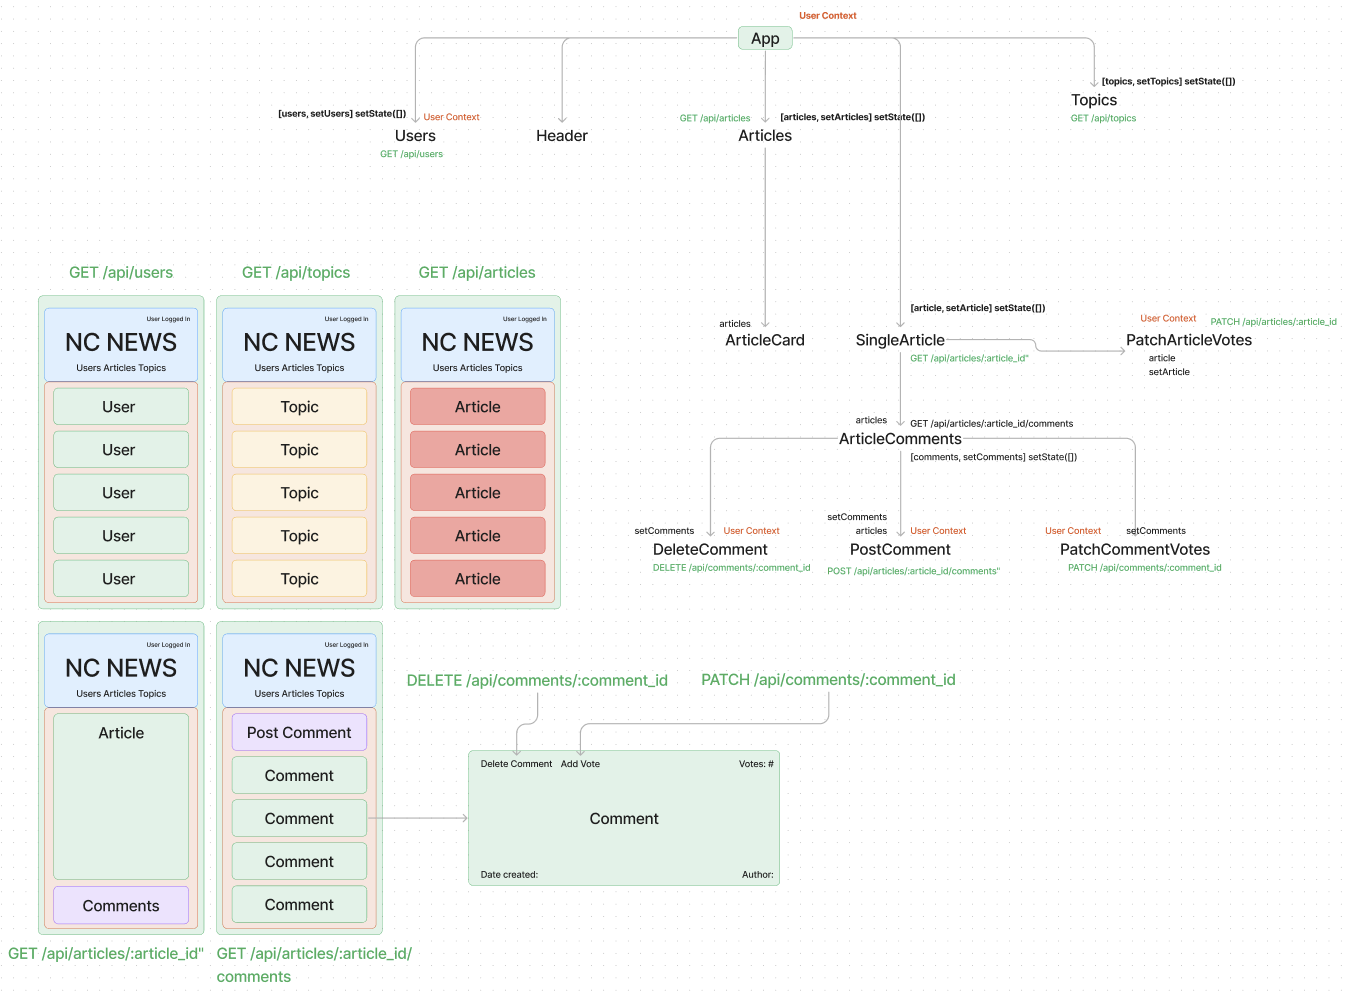
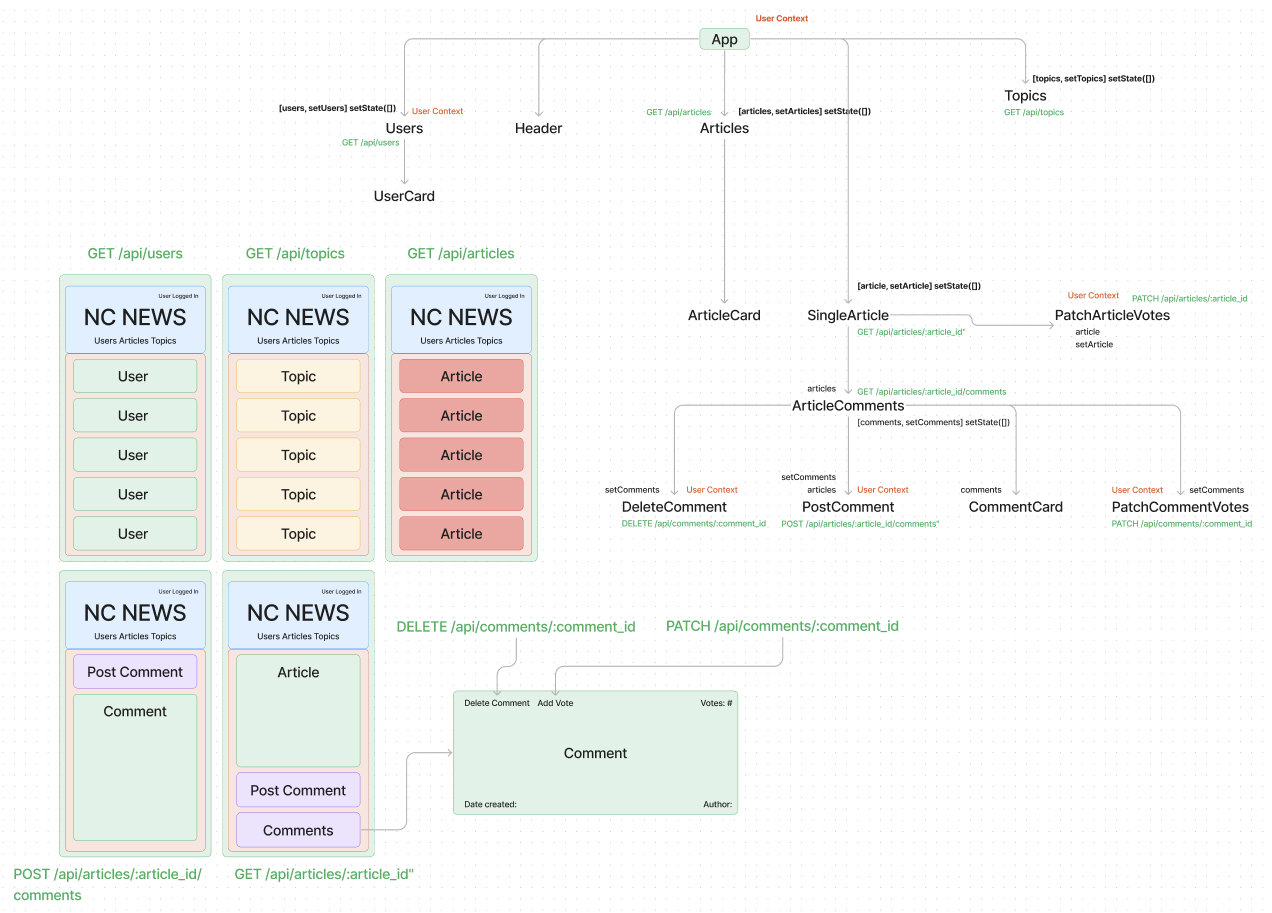
adds more planning to wireframe and more functionality on users endpoint

diff --git a/src/components/Users.jsx b/src/components/Users.jsx
@@ -1,16 +1,10 @@
-import { useContext, useEffect, useState } from "react";
-import { UserContext } from "./UserContext";
+import { useEffect, useState } from "react";
 import { getAllUsers } from "./api";
 import UserCard from "./UserCard";
 
 const Users = () => {
   const [users, setUsers] = useState([]);
-  const { setUser } = useContext(UserContext);
   const [isLoading, setIsLoading] = useState(true);
-
-  function handleUserClick(username) {
-    setUser(username);
-  }
 
   useEffect(() => {
     getAllUsers().then((users) => {

diff --git a/src/components/Header.jsx b/src/components/Header.jsx
@@ -1,11 +1,16 @@
+import { useContext } from "react";
+import { UserContext } from "./UserContext";
 import { Link } from "react-router-dom";
 
 const Header = () => {
+  const { user } = useContext(UserContext);
+
   return (
     <div className="header">
+      {user ? <p>'{user}' is logged in.</p> : <p>Click Users link to log in</p>}
       <h1>NC-NEWS</h1>
       <Link to={"/users"}>
-      <h2>Users</h2>
+        <h2>Users</h2>
       </Link>
       <Link to={"/articles"}>
         <h2>Articles</h2>

diff --git a/src/components/UserCard.jsx b/src/components/UserCard.jsx
@@ -1,6 +1,17 @@
+import { useContext } from "react";
+import { UserContext } from "./UserContext";
 const UserCard = ({ user }) => {
+
+  const { setUser } = useContext(UserContext);
+
+  function handleUserClick(username) {
+    setUser(username);
+  }
+
   return (
-    <li id="user">
+    <li id="user" onClick={()=>{
+      handleUserClick(user.username)
+    }}>
       <h2>{user.username}</h2>
       <p>{user.name}</p>
       <img id="all-article-imgs" src={user.avatar_url} alt={user.name} />
